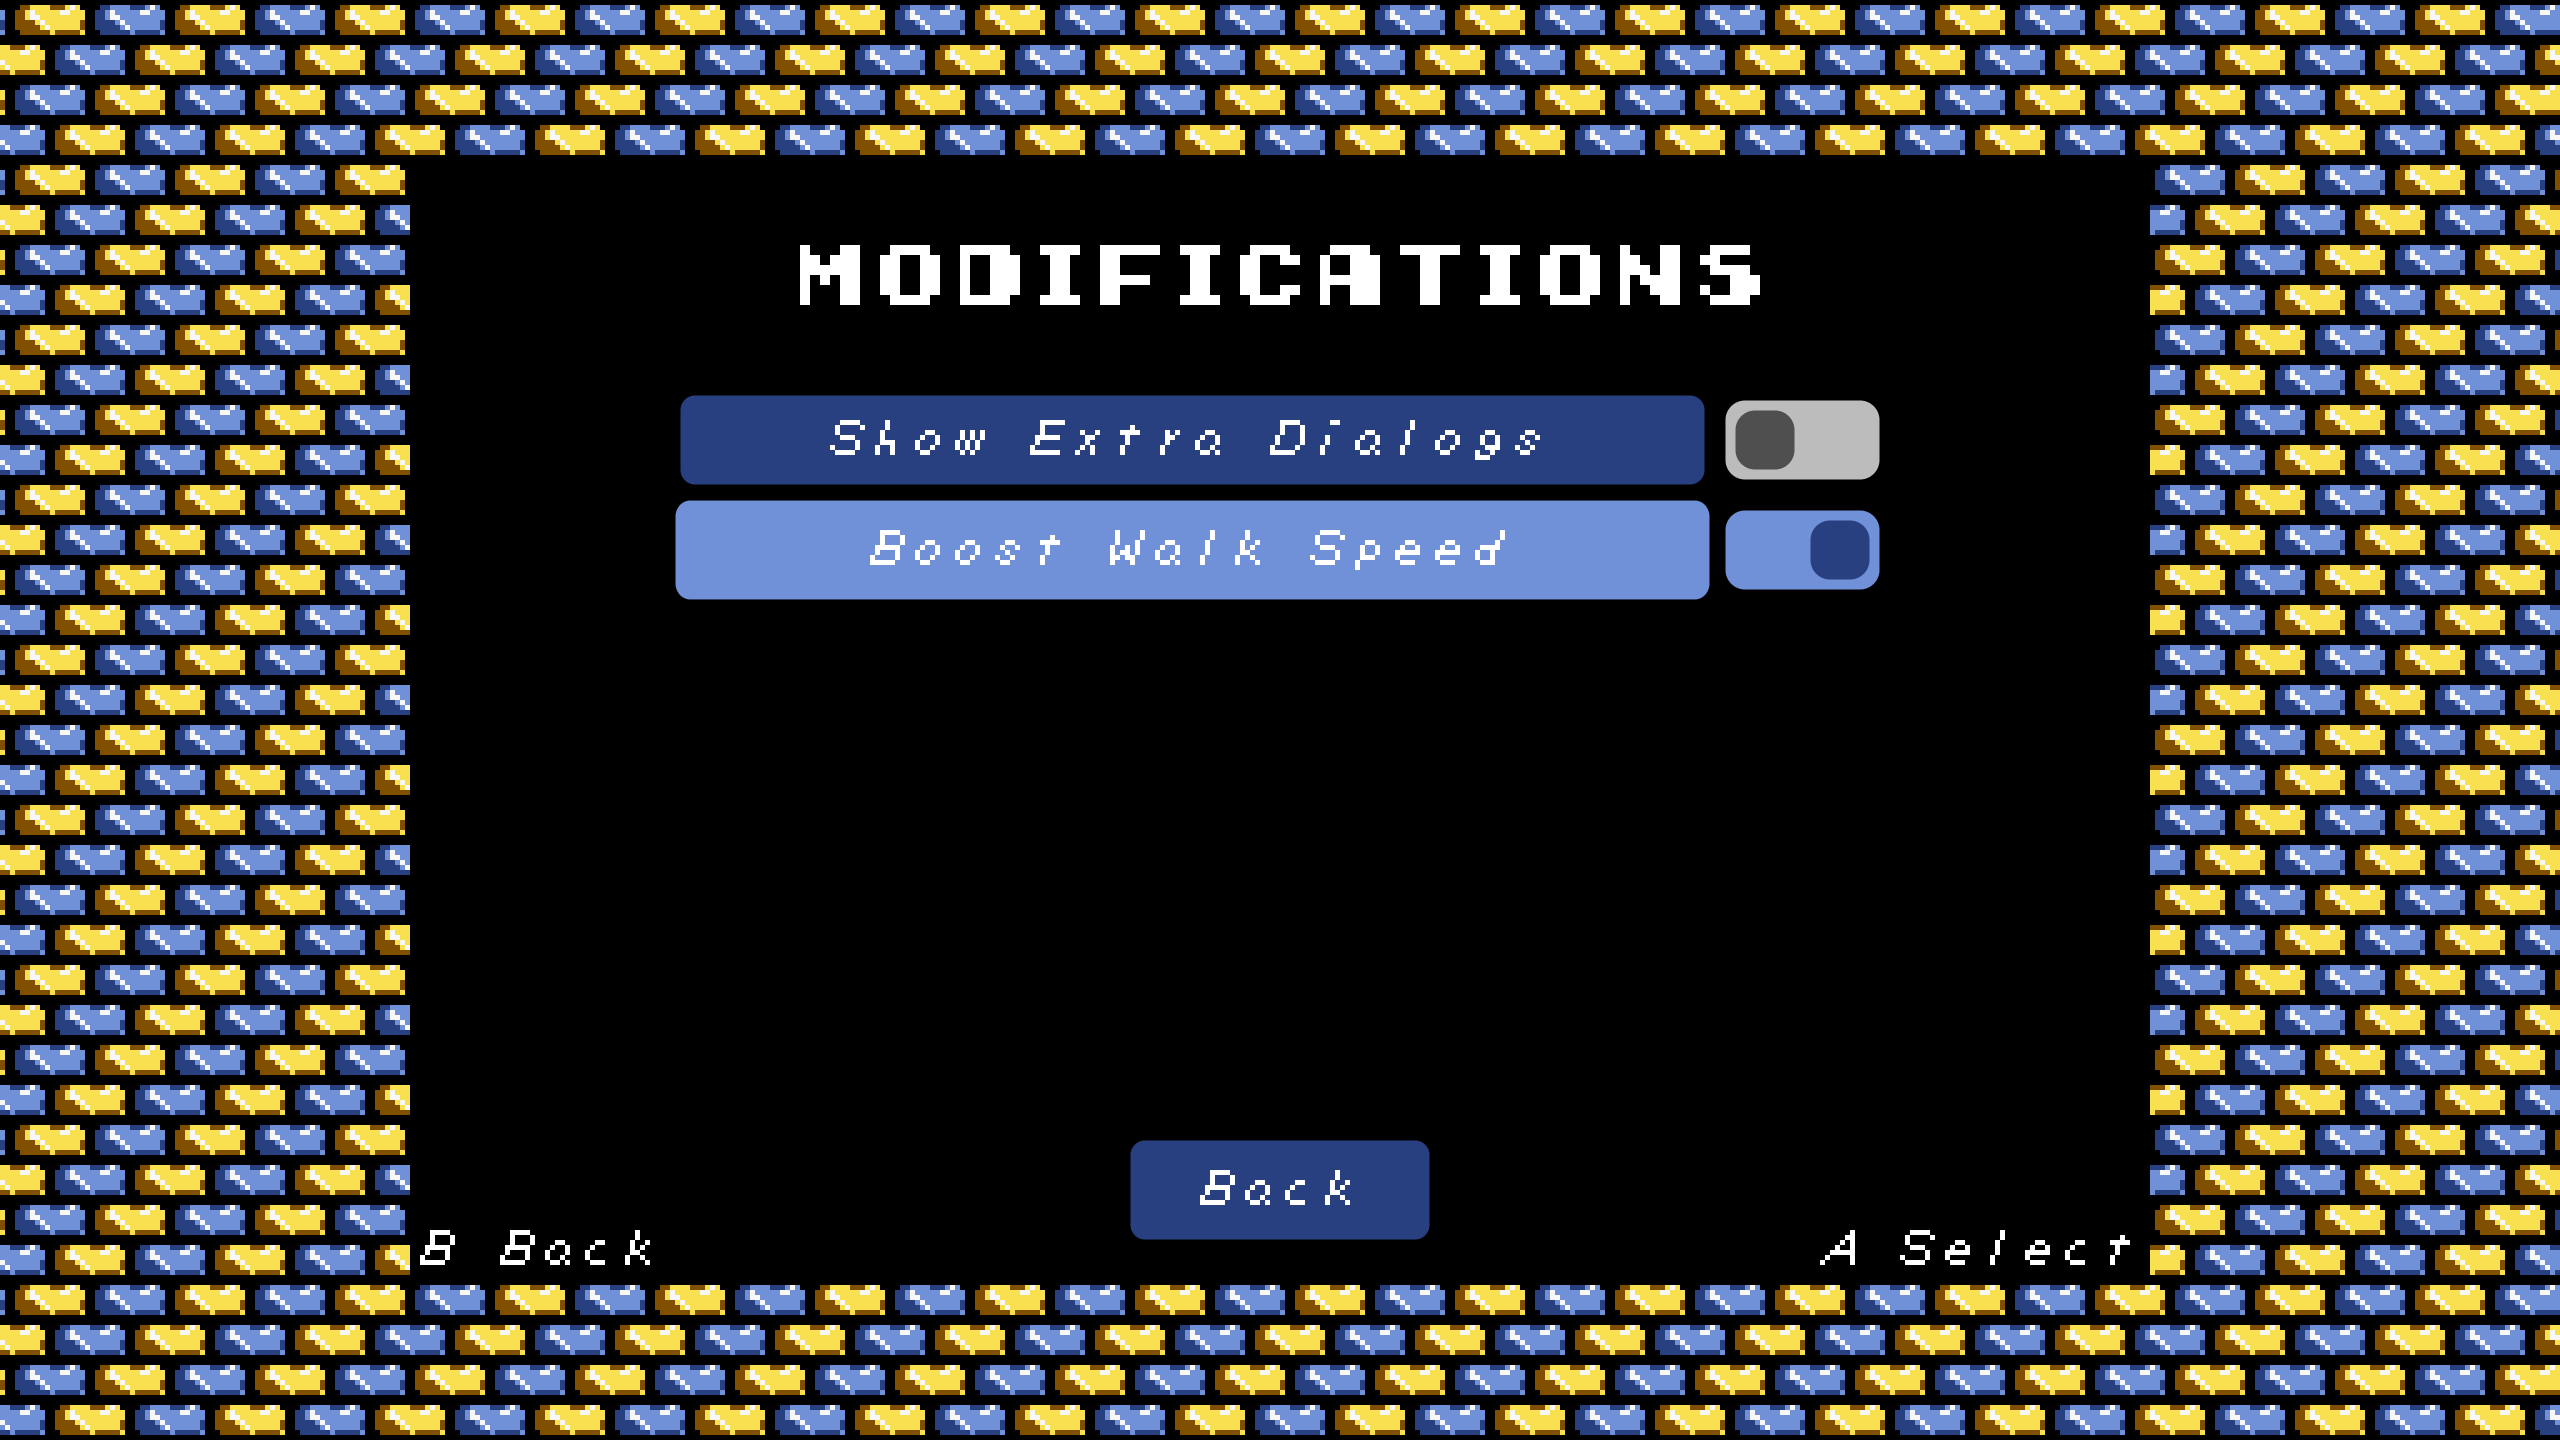
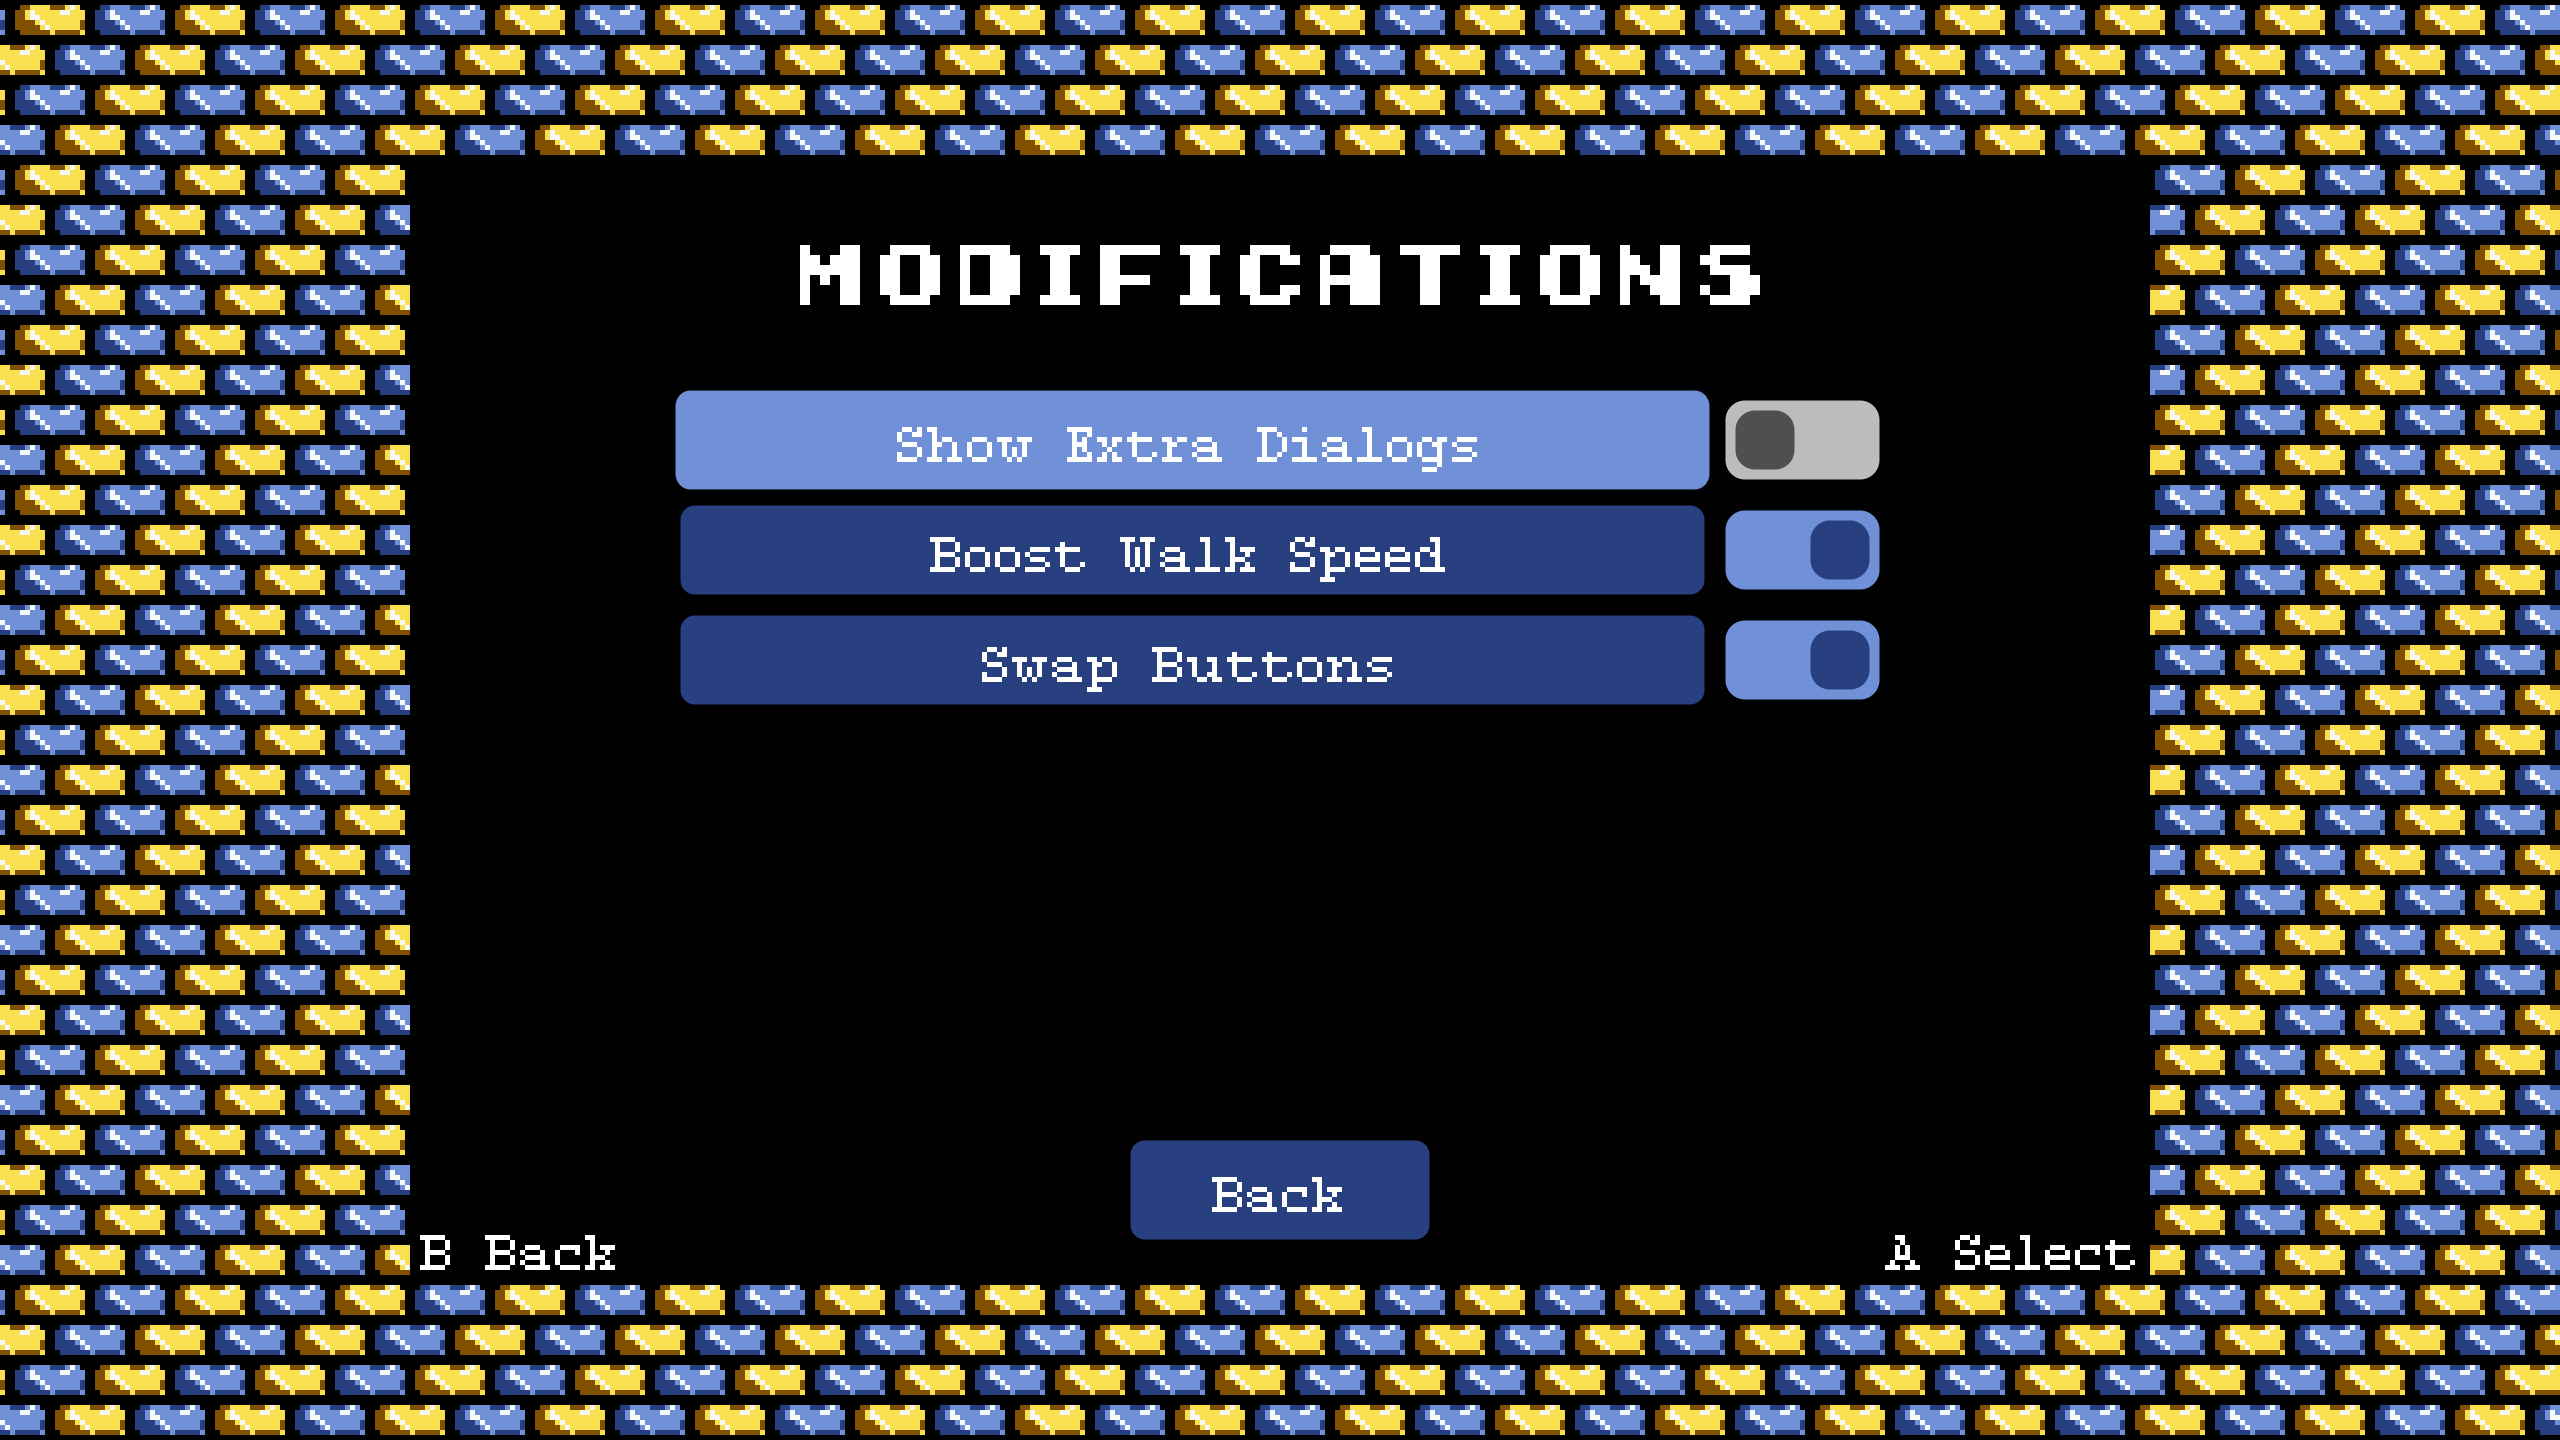
Move button swap option to mods menu

diff --git a/InGame/Pages/GameSettingsPage.cs b/InGame/Pages/GameSettingsPage.cs
@@ -11,7 +11,6 @@ namespace ProjectZ.InGame.Pages;
 class GameSettingsPage : InterfacePage
 {
     private readonly InterfaceListLayout _bottomBar;
-    private DateTime nextControlCheck = DateTime.MinValue;
 
     public GameSettingsPage(int width, int height)
     {
@@ -40,15 +39,6 @@ class GameSettingsPage : InterfacePage
             "settings_game_autosave", GameSettings.Autosave, newState => { GameSettings.Autosave = newState; });
         contentLayout.AddElement(toggleAutosave);
 
-        var swapButtons = InterfaceToggle.GetToggleButton(
-            new Point(buttonWidth, 18),
-            new Point(5, 2),
-            "settings_game_swap_buttons",
-            GameSettings.SwapButtons,
-            PressButtonSwapButtonsChange
-        );
-        contentLayout.AddElement(swapButtons);
-
         gameSettingsList.AddElement(contentLayout);
 
         _bottomBar = new InterfaceListLayout() { Size = new Point(width, (int)(height * Values.MenuFooterSize)), Selectable = true, HorizontalMode = true };
@@ -68,7 +58,7 @@ class GameSettingsPage : InterfacePage
         base.Update(pressedButtons, gameTime);
 
         // close the page
-        if (nextControlCheck <= DateTime.Now && ControlHandler.ButtonPressed(ControlHandler.CancelButton))
+        if (ControlHandler.ButtonPressed(ControlHandler.CancelButton))
             Game1.UiPageManager.PopPage();
     }
 
@@ -93,14 +83,5 @@ class GameSettingsPage : InterfacePage
         GameSettings.ToggleDialogFont();
         Resources.SetGameFont(GameSettings.DialogFontName);
         Game1.UiPageManager.Reload(); // Reload pages to pick up new font
-    }
-
-    public void PressButtonSwapButtonsChange(bool value)
-    {
-        nextControlCheck = DateTime.Now.AddMilliseconds(500); // Small delay to prevent menu close on change
-        GameSettings.SwapButtons = value;
-        ControlHandler.ResetControls();
-        InventoryOverlay.UpdateItemSlotStrings();
-        Game1.UiPageManager.Reload();
     }
 }

diff --git a/InGame/Pages/ModsSettingsPage.cs b/InGame/Pages/ModsSettingsPage.cs
@@ -11,6 +11,7 @@ namespace ProjectZ.InGame.Pages;
 class ModsSettingsPage : InterfacePage
 {
     private readonly InterfaceListLayout _bottomBar;
+    private DateTime nextControlCheck = DateTime.MinValue;
 
     public ModsSettingsPage(int width, int height)
     {
@@ -45,6 +46,15 @@ class ModsSettingsPage : InterfacePage
         );
         contentLayout.AddElement(toggleBoostWalkSpeed);
 
+        var swapButtons = InterfaceToggle.GetToggleButton(
+            new Point(buttonWidth, 18),
+            new Point(5, 2),
+            "settings_mods_swap_buttons",
+            GameSettings.SwapButtons,
+            PressButtonSwapButtonsChange
+        );
+        contentLayout.AddElement(swapButtons);
+
         modsSettingsList.AddElement(contentLayout);
 
         _bottomBar = new InterfaceListLayout() { Size = new Point(width, (int)(height * Values.MenuFooterSize)), Selectable = true, HorizontalMode = true };
@@ -64,7 +74,7 @@ class ModsSettingsPage : InterfacePage
         base.Update(pressedButtons, gameTime);
 
         // close the page
-        if (ControlHandler.ButtonPressed(ControlHandler.CancelButton))
+        if (nextControlCheck <= DateTime.Now && ControlHandler.ButtonPressed(ControlHandler.CancelButton))
             Game1.UiPageManager.PopPage();
     }
 
@@ -77,5 +87,14 @@ class ModsSettingsPage : InterfacePage
 
         PageLayout.Deselect(false);
         PageLayout.Select(InterfaceElement.Directions.Top, false);
+    }
+
+    public void PressButtonSwapButtonsChange(bool value)
+    {
+        nextControlCheck = DateTime.Now.AddMilliseconds(500); // Small delay to prevent menu close on change
+        GameSettings.SwapButtons = value;
+        ControlHandler.ResetControls();
+        InventoryOverlay.UpdateItemSlotStrings();
+        Game1.UiPageManager.Reload();
     }
 }

diff --git a/README.md b/README.md
@@ -38,6 +38,12 @@ Set Link's base speed to 1.25x normal. Makes map traversal feel better without o
 
 Default value is `OFF`.
 
+#### Swap Button Layout
+
+Default layout and UI actions (confirm and cancel) use XInput. This option will swap to the "other" layout, along with swapping the location of the confirm and cancel buttons.
+
+Default value is `OFF`.
+
 ### Font Selection!
 
 <img src="Assets/menu_settings_game.png" style="width: 400px" alt="Game Settings Menu" title="Game Settings Menu">
@@ -48,10 +54,9 @@ The monospace version was in the original release, but went unused.
 
 ### Other Enhancements and Fixes!
 
-- Quit menu for easy exiting of the application
-- Adjust gameplay scaling using the L and R bumpers
-- UI scaling option
-- Performance optimizations to help on lower end devices and via emulation
+- Quit menu for easy exiting of the application - [@dekart811](https://github.com/dekart811)
+- Adjust gameplay scaling using the L and R bumpers - [@malmazuke](https://github.com/malmazuke)
+- Performance optimizations to help on lower end devices and running via emulation
 - [WIP] Additional Languages (credited by Git history):
     - Spanish - [@edaznaran](https://github.com/edaznaran)
     - Portuguese - [@altiereslima](https://github.com/altiereslima)
